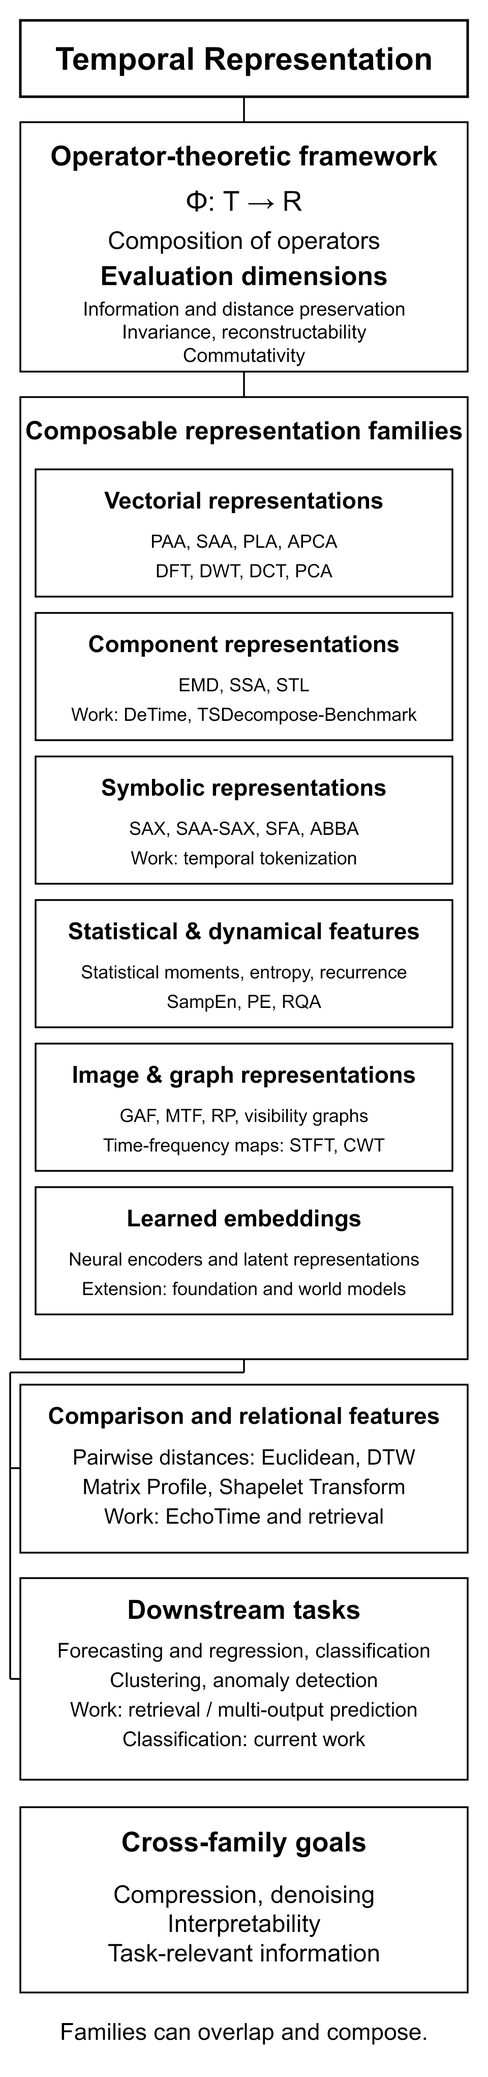
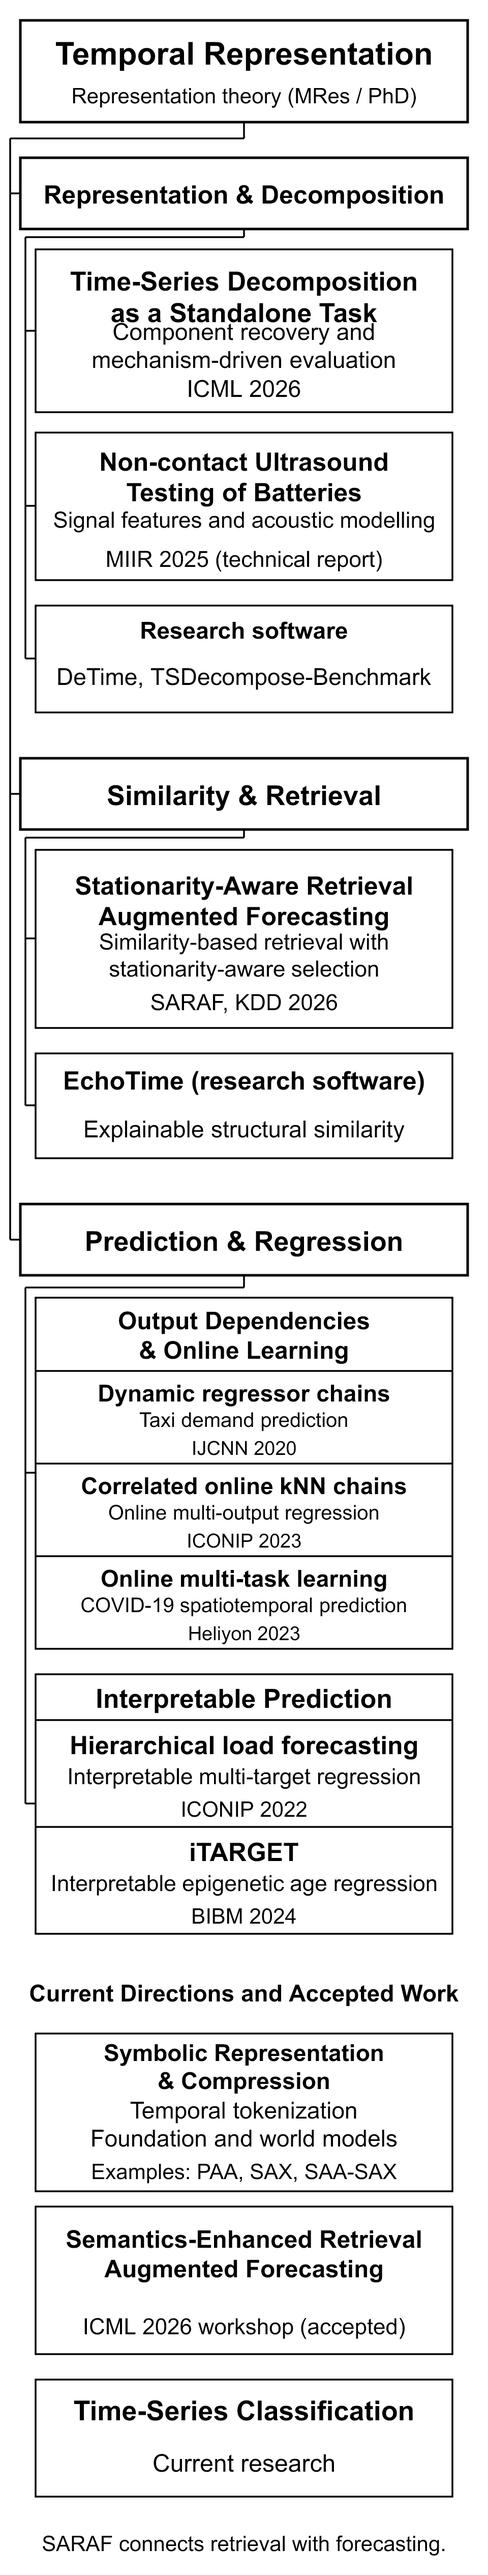
Map published research into three connected themes

Changed region(s): [[0.0, 0.0, 0.9688, 0.9961]]

diff --git a/research.html b/research.html
@@ -4,10 +4,10 @@
   <meta charset="utf-8">
   <meta name="viewport" content="width=device-width, initial-scale=1">
   <title>Research | Zipeng Wu</title>
-  <meta name="description" content="Zipeng Wu's temporal representation theory: composable representation operators, evaluation dimensions, comparison, and downstream time-series tasks.">
+  <meta name="description" content="Zipeng Wu's research in temporal representation, organized around published work on decomposition, similarity and retrieval, forecasting, and interpretable regression.">
   <link rel="canonical" href="https://zipengwu365.github.io/research.html">
   <link rel="icon" href="favicon.svg" type="image/svg+xml">
-  <link rel="stylesheet" href="styles.css?v=20261001-theory">
+  <link rel="stylesheet" href="styles.css?v=20261001-publications">
 </head>
 <body>
   <a class="skip-link" href="#content">Skip to main content</a>
@@ -28,76 +28,69 @@
   <main id="content" class="page">
     <section class="section page-title">
       <h1>Research</h1>
-      <p class="tagline">A common representation framework for time series, sequential learning, and temporal structure.</p>
-    </section>
-    <section class="section">
-      <h2>Current Research Focuses</h2>
-      <ol class="focus-list">
-        <li><strong>A theory of temporal representation.</strong> Representation operators, their composition, and the properties that connect representation choices to task requirements.</li>
-        <li><strong>Representations for non-stationary time series.</strong> Component decomposition, structural comparison, stationarity-aware retrieval, forecasting, classification, and reproducible evaluation.</li>
-        <li><strong>Symbolic and learned representations for foundation and world models.</strong> Temporal tokenization and abstractions for action histories, VLA trajectories, model rollouts, and temporal memory.</li>
-      </ol>
+      <p class="tagline">Temporal structure, similarity, and prediction.</p>
     </section>
     <section class="section research-overview" id="research-map" aria-labelledby="map-heading">
-      <h2 id="map-heading">Temporal representation</h2>
-      <p>My research centres on <strong>temporal representation</strong>, grounded in time-series representation theory. A representation operator maps a time series into a form that exposes useful temporal information. Operators can compose, connecting numerical approximations, components, symbols, features, images, graphs, and learned embeddings.</p>
+      <h2 id="map-heading">Temporal Representation: A Map of My Research</h2>
+      <p>My published work forms three connected themes: <strong>representation and decomposition</strong>, <strong>similarity and retrieval</strong>, and <strong>prediction and regression</strong>. The map places each paper under its main contribution and connects these themes to my current research.</p>
       <figure class="research-map">
         <picture>
-          <source media="(max-width: 600px)" srcset="assets/img/temporal-representation-mobile.png?v=20261001-theory">
-          <img src="assets/img/temporal-representation.png?v=20261001-theory" alt="Temporal Representation: an operator-theoretic framework and five evaluation dimensions support six composable representation families. DeTime and TSDecompose-Benchmark relate to component representations, temporal tokenization to symbolic representations, and EchoTime to comparison. Forecasting, regression, classification, clustering, and anomaly detection are downstream tasks. Compression and denoising are cross-family goals." width="3200" height="1800">
+          <source media="(max-width: 600px)" srcset="assets/img/temporal-representation-mobile.png?v=20261001-publications">
+          <img src="assets/img/temporal-representation.png?v=20261001-publications" alt="A publication-based map of Temporal Representation. Representation and Decomposition contains the ICML 2026 decomposition benchmark and a 2025 battery ultrasound technical report. Similarity and Retrieval contains SARAF at KDD 2026. Prediction and Regression contains work on taxi demand, load forecasting, online multi-output regression, COVID-19 prediction, and iTARGET. Software, current research, and accepted workshop work are labeled separately." width="3200" height="2240">
         </picture>
-        <figcaption>Families can overlap and compose. Method names are literature examples; labels marked “Work” locate my projects. <a href="assets/img/temporal-representation.png?v=20261001-theory">Full-size image</a> · <a href="assets/slides/temporal-representation.pptx?v=20261001-theory">Editable PowerPoint</a></figcaption>
+        <figcaption>Papers and a published technical report are grouped by research theme. Software, current research, and accepted work are marked separately. <a href="assets/img/temporal-representation.png?v=20261001-publications">Full-size image</a> · <a href="assets/slides/temporal-representation.pptx?v=20261001-publications">Editable PowerPoint</a></figcaption>
       </figure>
       <div class="research-directions">
         <article id="representation-core">
-          <h3>Representation theory</h3>
-          <p>The framework treats a representation as an operator <strong>Φ: T → R</strong> and studies how operators compose. Five dimensions organize its analysis: <strong>information preservation, distance preservation, invariance, reconstructability, and commutativity</strong>. Each task places different demands on these properties. Commutativity concerns whether changing the order of composable operators changes their result.</p>
-        </article>
-        <article class="full-width" id="representation-families">
-          <h3>Composable representation families</h3>
-          <ul class="plain-list">
-            <li><strong>Vectorial representations:</strong> aggregation and approximation (PAA, SAA, PLA, APCA), transform coefficients (DFT, DWT, DCT), and projections (PCA).</li>
-            <li><strong>Component representations:</strong> decompositions such as EMD, SSA, and STL expose temporal components.</li>
-            <li><strong>Symbolic representations:</strong> SAX, SAA-SAX, SFA, and ABBA encode temporal information as discrete symbols.</li>
-            <li><strong>Statistical and dynamical features:</strong> statistical moments, entropy, and recurrence descriptors, including SampEn, permutation entropy (PE), and recurrence quantification analysis (RQA).</li>
-            <li><strong>Image and graph representations:</strong> GAF, MTF, recurrence plots (RP), and visibility graphs. STFT and CWT also produce time-frequency maps.</li>
-            <li><strong>Learned embeddings:</strong> neural encoders produce latent representations. Foundation and world-model applications extend this framework to broader sequential data.</li>
-          </ul>
-          <p>These families describe how representations are constructed and expressed. They can overlap: an operator may transform numerical coefficients into symbols, or summarize an image as numerical features.</p>
+          <h3>Common basis: representation theory</h3>
+          <p>My MRes and PhD work studies representation operators <strong>Φ: T → R</strong>, their composition, and five properties: information preservation, distance preservation, invariance, reconstructability, and commutativity. This framework connects questions about temporal structure with my earlier work on output dependence and interpretable prediction; each task requires different information to be retained.</p>
         </article>
         <article id="component-representations">
-          <h3>Component representations and decomposition</h3>
-          <p>Decomposition makes temporal components explicit and inspectable. <a href="https://systems-mechanobiology.github.io/DeTime/">DeTime</a> provides decomposition tooling; <a href="https://github.com/ZipengWu365/TSDecompose-Benchmark">TSDecompose-Benchmark</a> evaluates decomposition as a standalone task, alongside the <a href="https://icml.cc/virtual/2026/poster/63747">ICML 2026 paper</a>.</p>
-        </article>
-        <article id="symbolic-representation">
-          <h3>Symbolic representation</h3>
-          <p>Discrete descriptions of temporal structure connect time series to token sequences. SAX builds on mean aggregation, while SAA-SAX uses slope aggregation. Both illustrate how numerical and symbolic representation operators compose.</p>
-          <p>Current projects include <em>Time Series Language and Foundation Model</em> and <em>Language-Action Time-Series Tokenization for Efficient VLA Policies</em>. See the <a href="awards.html">associated compute allocations</a>.</p>
-        </article>
-        <article id="compression">
-          <h3>Cross-family goals: compression and denoising</h3>
-          <p>Compression concerns representation size and retained information. It can use aggregation, approximation, coefficient selection, or symbolic encoding. <strong>PAA</strong> (Piecewise Aggregate Approximation) stores segment means, and <strong>SAA</strong> (Slopewise Aggregate Approximation) stores segment slopes. Additional quantization and symbolization produce <a href="https://www.cs.ucr.edu/~stelo/papers/DMKD03.pdf"><strong>SAX</strong></a> and <a href="https://doi.org/10.1109/SSCI50451.2021.9660130"><strong>SAA-SAX</strong></a>, respectively.</p>
-          <p>Full spectral transforms change the representation; selecting or thresholding coefficients can add compression or denoising. Other goals include interpretability and preserving information relevant to the task. Decomposition and image mappings can expose structure without reducing data size.</p>
-        </article>
-        <article id="frequency-conversion">
-          <h3>Spectral and time-frequency representations</h3>
-          <p>DFT, DCT, and wavelet transforms express temporal information through coefficients. STFT and CWT describe how frequency content changes over time. These operators connect vectorial representations with time-frequency maps and can support periodicity analysis, compression, and denoising.</p>
+          <h3>1. Representation &amp; Decomposition</h3>
+          <ul class="plain-list">
+            <li><a href="https://proceedings.mlr.press/v306/wu26bh.html">Time-Series Decomposition as a Standalone Task: A Mechanism-Driven Diagnostic Benchmark</a> (ICML 2026). Evaluates component recovery and diagnoses decomposition methods through controlled temporal mechanisms.</li>
+            <li><a href="https://doi.org/10.33774/miir-2025-btsjk">Non-contact ultrasound testing of batteries</a> (2025 technical report). Uses signal features and acoustic modelling for battery testing.</li>
+          </ul>
+          <p><strong>Software:</strong> <a href="https://systems-mechanobiology.github.io/DeTime/">DeTime</a> and <a href="https://github.com/ZipengWu365/TSDecompose-Benchmark">TSDecompose-Benchmark</a>.</p>
         </article>
         <article id="similarity">
-          <h3>Comparison operators and relational features</h3>
-          <p>Euclidean distance and DTW compare pairs of sequences. Comparison can also construct representations: Matrix Profile stores local nearest-neighbour distances, and Shapelet Transform represents a sequence by its distances to reference subsequences.</p>
-          <p><a href="https://zipengwu365.github.io/EchoTime/">EchoTime</a> compares time series and datasets through explainable structural similarity. Retrieval also connects comparison to forecasting, as in <a href="https://arxiv.org/abs/2606.04135">Stationarity-Aware Retrieval-Augmented Time Series Forecasting</a> (KDD 2026).</p>
+          <h3>2. Similarity &amp; Retrieval</h3>
+          <p><a href="https://arxiv.org/abs/2606.04135">Stationarity-Aware Retrieval-Augmented Time Series Forecasting</a> (SARAF, KDD 2026) selects and aggregates historical segments using temporal similarity, diversity, and stationarity. This connects retrieval directly to forecasting.</p>
+          <p><strong>Software:</strong> <a href="https://zipengwu365.github.io/EchoTime/">EchoTime</a> provides explainable structural comparison of time series and datasets.</p>
         </article>
-        <article id="forecasting">
-          <h3>Forecasting and multi-output prediction</h3>
-          <p>This thread spans <a href="https://doi.org/10.1109/IJCNN48605.2020.9207160">taxi demand prediction</a>, <a href="https://doi.org/10.1007/978-981-99-1648-1_1">hierarchical load forecasting</a>, <a href="https://doi.org/10.1016/j.heliyon.2023.e18771">spatiotemporal prediction</a>, and retrieval-augmented time-series forecasting. Related work on <a href="https://doi.org/10.1007/978-981-99-8067-3_3">online multi-output regression</a> connects through learning dependencies between outputs.</p>
+        <article class="full-width" id="forecasting">
+          <h3>3. Prediction &amp; Regression</h3>
+          <h4>Output Dependencies &amp; Online Learning</h4>
+          <ul class="plain-list">
+            <li><a href="https://doi.org/10.1109/IJCNN48605.2020.9207160">A Novel Dynamically Adjusted Regressor Chain for Taxi Demand Prediction</a> (IJCNN 2020). Uses dynamic regressor chains to model dependencies between prediction targets.</li>
+            <li><a href="https://doi.org/10.1007/978-981-99-8067-3_3">Correlated Online k-Nearest Neighbors Regressor Chain for Online Multi-output Regression</a> (CONNRC, ICONIP 2023). Learns output dependencies through online kNN regressor chains.</li>
+            <li><a href="https://doi.org/10.1016/j.heliyon.2023.e18771">A novel online multi-task learning for COVID-19 multi-output spatio-temporal prediction</a> (Heliyon 2023). Combines temporal autocorrelation, spatial dependence, and adaptation to drift.</li>
+          </ul>
+          <h4>Interpretable Prediction</h4>
+          <ul class="plain-list">
+            <li><a href="https://doi.org/10.1007/978-981-99-1648-1_1">An Interpretable Multi-target Regression Method for Hierarchical Load Forecasting</a> (ICONIP 2022). Provides interpretable multi-target forecasts of hierarchical electricity demand.</li>
+            <li><a href="https://doi.org/10.1109/BIBM62325.2024.10821890">iTARGET: Interpretable Tailored Age Regression for Grouped Epigenetic Traits</a> (BIBM 2024). Uses age-specific CpG features and group-specific regression for interpretable age prediction. This is an adjacent application to epigenetic feature vectors.</li>
+          </ul>
+        </article>
+        <article class="full-width" id="current-research">
+          <h3>Current Research</h3>
+          <p>These directions extend the published work above.</p>
+        </article>
+        <article id="compression">
+          <h3>Symbolic representation, compression &amp; tokenization</h3>
+          <p>Current work studies temporal tokens for foundation and world models, including <em>Time Series Language and Foundation Model</em> and <em>Language-Action Time-Series Tokenization for Efficient VLA Policies</em>. See the <a href="awards.html">associated compute allocations</a>.</p>
+          <p><strong>Literature examples:</strong> PAA stores segment means; <a href="https://www.cs.ucr.edu/~stelo/papers/DMKD03.pdf">SAX</a> adds symbolic encoding, while <a href="https://doi.org/10.1109/SSCI50451.2021.9660130">SAA-SAX</a> encodes slope-based aggregates.</p>
+        </article>
+        <article id="current-retrieval">
+          <h3>Semantics-enhanced retrieval</h3>
+          <p><a href="https://research.birmingham.ac.uk/en/publications/semantics-enhanced-retrieval-augmented-time-series-forecasting/">Semantics-Enhanced Retrieval-Augmented Time Series Forecasting</a> is accepted / in press for an ICML 2026 workshop. It extends the retrieval research theme.</p>
         </article>
         <article id="classification">
-          <h3>Classification · current research</h3>
+          <h3>Time-series classification</h3>
           <p>Time-series classification extends the representation question to distinguishing classes from temporal structure.</p>
         </article>
       </div>
-      <p>Forecasting, regression, classification, clustering, and anomaly detection can use several representation families. A paper may contribute to an operator, a comparison method, a task, or more than one of these. See the <a href="publications.html">publication list</a> for individual works.</p>
+      <p>See the <a href="publications.html">publication list</a> for full bibliographic details and the <a href="software.html">software page</a> for tools.</p>
     </section>
   </main>
   <footer class="site-footer">

diff --git a/index.html b/index.html
@@ -4,7 +4,7 @@
   <meta charset="utf-8">
   <meta name="viewport" content="width=device-width, initial-scale=1">
   <title>Zipeng Wu | Temporal Representation</title>
-  <meta name="description" content="Zipeng Wu, PhD researcher at the University of Birmingham. Research in temporal representation theory, composable representation operators, similarity, forecasting, and classification.">
+  <meta name="description" content="Zipeng Wu, PhD researcher at the University of Birmingham. Temporal representation research spanning decomposition, similarity and retrieval, forecasting, and interpretable regression.">
   <meta name="author" content="Zipeng Wu">
   <link rel="canonical" href="https://zipengwu365.github.io/">
   <link rel="icon" href="favicon.svg" type="image/svg+xml">
@@ -20,7 +20,7 @@
   <meta name="twitter:image" content="https://zipengwu365.github.io/assets/img/zipeng-wu-profile.jpg">
   <meta name="twitter:image:alt" content="Portrait of Zipeng Wu.">
   <meta name="theme-color" content="#17324d">
-  <link rel="stylesheet" href="styles.css?v=20261001-theory">
+  <link rel="stylesheet" href="styles.css?v=20261001-publications">
   <script type="application/ld+json">
   {
     "@context": "https://schema.org",
@@ -87,24 +87,24 @@
       <section class="section">
         <h2>Research directions</h2>
         <ul class="plain-list">
-          <li><strong>Representation theory:</strong> representation operators, their composition, and the information and structure they preserve.</li>
-          <li><strong>Representation methods:</strong> component decomposition, symbolic encoding, and learned temporal representations.</li>
-          <li><strong>Comparison:</strong> structural similarity and retrieval.</li>
-          <li><strong>Downstream tasks:</strong> retrieval-augmented forecasting, multi-output prediction, and current work on classification.</li>
+          <li><strong>Representation and decomposition:</strong> temporal component recovery, decomposition evaluation, and signal feature extraction.</li>
+          <li><strong>Similarity and retrieval:</strong> structural comparison and stationarity-aware retrieval for forecasting.</li>
+          <li><strong>Prediction and regression:</strong> output dependencies, online learning, hierarchical forecasting, and interpretable grouped regression.</li>
+          <li><strong>Current directions:</strong> time-series classification, symbolic representation and compression, and temporal tokenization for foundation and world models.</li>
         </ul>
       </section>
 
       <section class="section research-overview" id="research-map" aria-labelledby="research-map-title">
         <h2 id="research-map-title">Temporal Representation</h2>
-        <p>My representation theory provides the common framework. The map separates composable representation families, comparison operators, and downstream tasks, with compression and denoising as goals shared across families.</p>
+        <p>The map places my published work under three research themes. My MRes and PhD work on representation theory provides the common basis. Current projects and accepted workshop work appear below the published work.</p>
         <figure class="research-map">
           <a href="research.html#research-map" aria-label="Explore the research map and related work">
             <picture>
-              <source media="(max-width: 600px)" srcset="assets/img/temporal-representation-mobile.png?v=20261001-theory">
-              <img src="assets/img/temporal-representation.png?v=20261001-theory" alt="Temporal Representation: an operator-theoretic framework and five evaluation dimensions support composable vectorial, component, symbolic, statistical and dynamical, image and graph, and learned representations. Comparison and downstream tasks form separate layers. Compression is a cross-family goal." width="3200" height="1800">
+              <source media="(max-width: 600px)" srcset="assets/img/temporal-representation-mobile.png?v=20261001-publications">
+              <img src="assets/img/temporal-representation.png?v=20261001-publications" alt="Zipeng Wu's research map. Representation and Decomposition includes the ICML 2026 decomposition benchmark and the MIIR 2025 battery ultrasound report. Similarity and Retrieval includes SARAF, KDD 2026. Prediction and Regression includes taxi demand, online multi-output regression, COVID-19 prediction, hierarchical load forecasting, and iTARGET. Research software, accepted workshop work, and current classification and symbolic representation projects are labeled separately." width="3200" height="2240">
             </picture>
           </a>
-          <figcaption>Families can overlap and compose. <a href="research.html#research-map">Theory and related work</a> · <a href="assets/slides/temporal-representation.pptx?v=20261001-theory">Editable PowerPoint</a></figcaption>
+          <figcaption><a href="research.html#research-map">Paper summaries and research connections</a> · <a href="assets/slides/temporal-representation.pptx?v=20261001-publications">Editable PowerPoint</a></figcaption>
         </figure>
       </section>
 

diff --git a/publications.html b/publications.html
@@ -4,7 +4,7 @@
   <meta charset="utf-8">
   <meta name="viewport" content="width=device-width, initial-scale=1">
   <title>Publications | Zipeng Wu</title>
-  <meta name="description" content="Publications and presentations by Zipeng Wu.">
+  <meta name="description" content="Peer-reviewed papers, accepted workshop work, and technical reports by Zipeng Wu.">
   <link rel="canonical" href="https://zipengwu365.github.io/publications.html">
   <link rel="icon" href="favicon.svg" type="image/svg+xml">
   <link rel="stylesheet" href="styles.css?v=20260703d">
@@ -27,8 +27,8 @@
   </header>
   <main id="content" class="page publication-page">
     <section class="section page-title">
-      <h1>Publication</h1>
-      <p class="publication-note">Publications and first-author oral presentations. * denotes corresponding authorship.</p>
+      <h1>Publications</h1>
+      <p class="publication-note">Peer-reviewed papers and first-author oral presentations, followed by accepted workshop work and technical reports. * denotes corresponding authorship.</p>
     </section>
     <section class="section">
       <h2 class="year-heading">2026</h2>
@@ -41,7 +41,7 @@
             <div class="pub-meta">ICML 2026 | CORE/ICORE A*</div>
             <h2>Time-Series Decomposition as a Standalone Task: A Mechanism-Driven Diagnostic Benchmark.</h2>
             <p><strong>Zipeng Wu</strong>, Jiani Wei, Shiqiao Zhou, Jiajun Chen, Fabian Spill, and J. W. Andrews*. Forty-third International Conference on Machine Learning. First author.</p>
-            <div class="pub-links"><a href="https://icml.cc/virtual/2026/poster/63747">URL</a></div>
+            <div class="pub-links"><a href="https://proceedings.mlr.press/v306/wu26bh.html">PMLR</a> <a href="https://icml.cc/virtual/2026/poster/63747">ICML</a></div>
           </div>
         </li>
         <li class="publication">
@@ -115,6 +115,32 @@
             <h2>A Novel Dynamically Adjusted Regressor Chain for Taxi Demand Prediction.</h2>
             <p><strong>Zipeng Wu</strong>, Guan Lian. International Joint Conference on Neural Networks. First author; oral presentation.</p>
             <div class="pub-links"><a href="https://doi.org/10.1109/IJCNN48605.2020.9207160">URL</a></div>
+          </div>
+        </li>
+      </ol>
+    </section>
+    <section class="section">
+      <h2 class="year-heading">Accepted workshop work</h2>
+      <ol class="bibliography">
+        <li class="publication no-preview">
+          <div class="pub-body">
+            <div class="pub-meta">ICML 2026 Workshop | Accepted / in press</div>
+            <h2>Semantics-Enhanced Retrieval-Augmented Time Series Forecasting.</h2>
+            <p>Shiqiao Zhou, <strong>Zipeng Wu</strong>, Holger Schöner, Edouard Fouché, IAG Wilson, and Shuo Wang. Workshop on Forecasting as a New Frontier of Intelligence. Co-author. The institutional record lists this as accepted work and notes that it was not yet published as of 29 September 2026.</p>
+            <div class="pub-links"><a href="https://research.birmingham.ac.uk/en/publications/semantics-enhanced-retrieval-augmented-time-series-forecasting/">Institutional record</a></div>
+          </div>
+        </li>
+      </ol>
+    </section>
+    <section class="section">
+      <h2 class="year-heading">Technical reports</h2>
+      <ol class="bibliography">
+        <li class="publication no-preview">
+          <div class="pub-body">
+            <div class="pub-meta">Mathematics in Industry Reports 2025 | Working report</div>
+            <h2>Non-contact ultrasound testing of batteries.</h2>
+            <p>James Herterich, David Allwright, Daniel Baerup, Sabrina Kombrink, Daniel Herring, Zhixuan Liu, <strong>Zipeng Wu</strong>, and Sam Olesker-Taylor. Published 3 February 2025, 28 pages. Co-author.</p>
+            <div class="pub-links"><a href="https://doi.org/10.33774/miir-2025-btsjk">DOI</a> <a href="https://research.birmingham.ac.uk/en/publications/non-contact-ultrasound-testing-of-batteries/">Institutional record</a></div>
           </div>
         </li>
       </ol>
